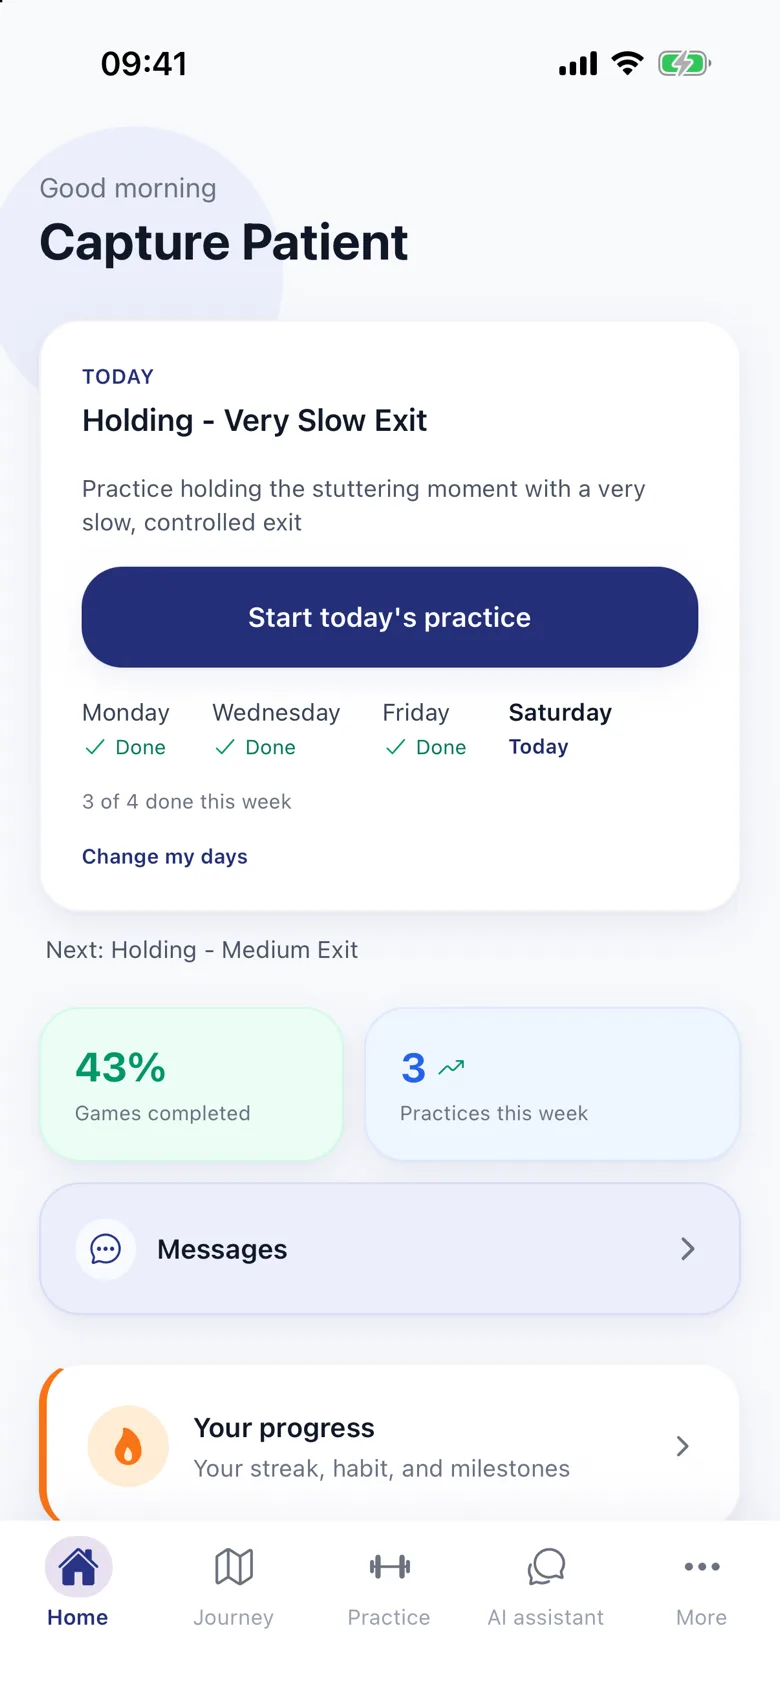
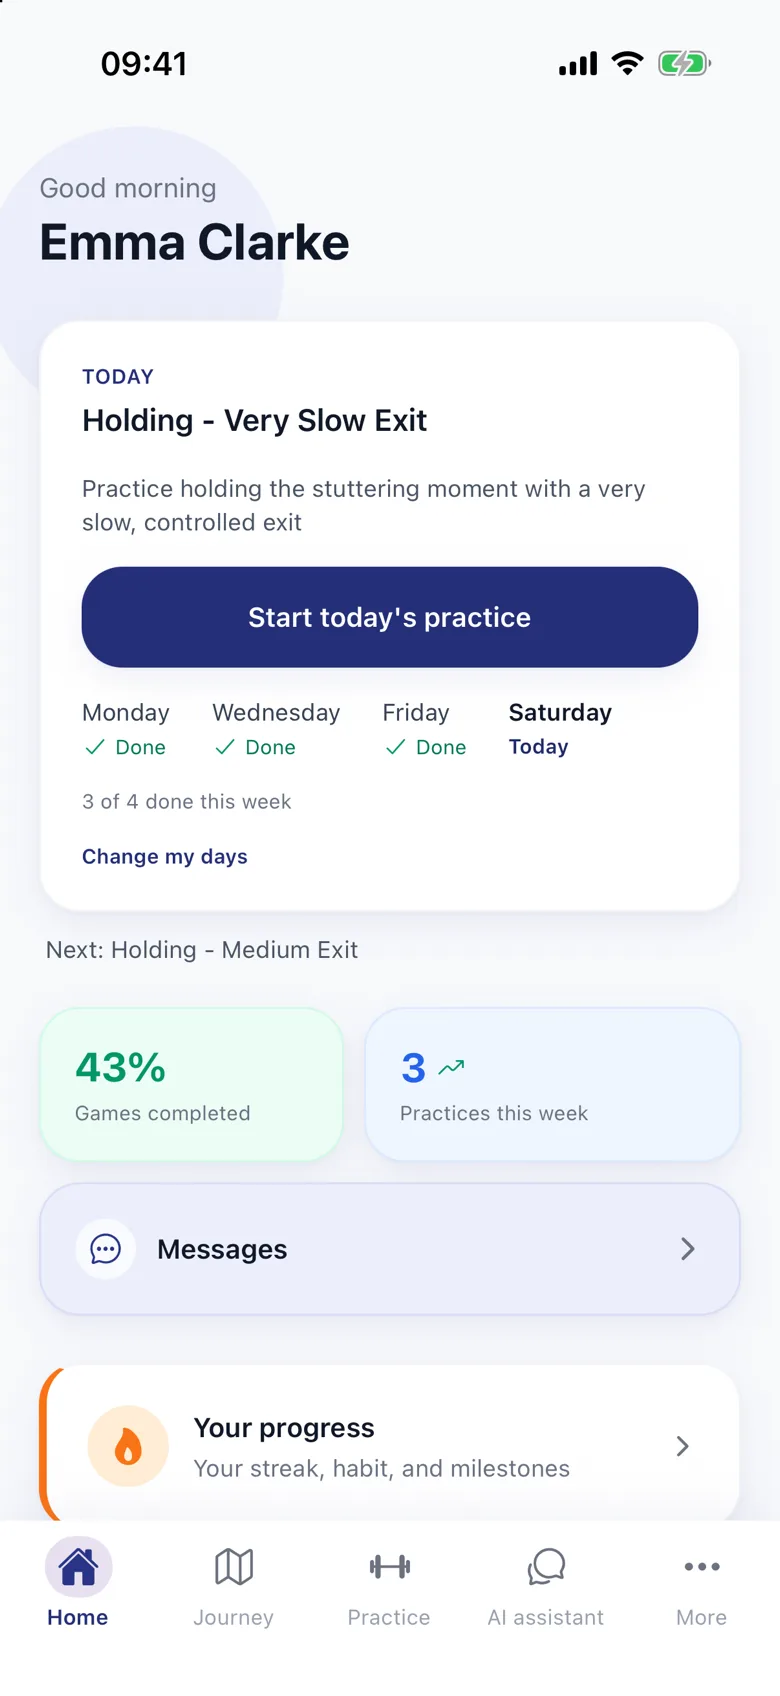
fix(patients): named demo patient, unscrolled recorder, larger legible hero cards, pt and es cards recaptured

Changed region(s): [[0.0615, 0.125, 0.5231, 0.1562]]

diff --git a/src/pages/ForPatients.tsx b/src/pages/ForPatients.tsx
@@ -27,13 +27,13 @@ const GALLERY = [
 const EXCHANGE = [
   {
     src: "/screenshots/detail/exchange-today.webp",
-    width: 1080,
-    height: 400,
+    width: 680,
+    height: 424,
   },
   {
     src: "/screenshots/detail/exchange-reply.webp",
-    width: 1008,
-    height: 292,
+    width: 680,
+    height: 316,
   },
 ] as const;
 const RECORD_SHOT = "/screenshots/mobile/patient-record.webp";
@@ -169,7 +169,7 @@ export default function ForPatients() {
             records on the phone, the therapist replies. */}
         <section className="relative overflow-hidden pt-28 pb-[clamp(2rem,5vw,4rem)] sm:pt-36">
           <div className="gutter relative">
-            <div className="grid items-center gap-12 lg:grid-cols-[0.9fr,1.1fr] lg:gap-8">
+            <div className="grid items-center gap-12 lg:grid-cols-[0.86fr,1.14fr] lg:gap-8">
               <div>
                 <p className={eyebrowClass}>{t.intro.eyebrow}</p>
                 <h1 className="t-display mt-5 font-accent font-bold text-calm-navy tracking-tight">
@@ -189,7 +189,7 @@ export default function ForPatients() {
                 </div>
               </div>
 
-              <ol className="mx-auto grid w-full max-w-[520px] gap-6 sm:max-w-[640px] sm:grid-cols-[1fr,auto] sm:grid-rows-[auto,auto,1fr] sm:items-center sm:gap-x-0 lg:ml-auto">
+              <ol className="mx-auto grid w-full max-w-[520px] gap-6 sm:max-w-[680px] sm:grid-cols-[1fr,auto] sm:grid-rows-[auto,auto,1fr] sm:items-center sm:gap-x-0 lg:ml-auto">
                 <li className="relative z-20 sm:col-start-1 sm:row-start-1 sm:mr-4 sm:self-start">
                   <BeatLabel n={1}>{t.intro.exchange.todayLabel}</BeatLabel>
                   <img
@@ -206,7 +206,7 @@ export default function ForPatients() {
                   <PhoneShot
                     src={localizedAsset(RECORD_SHOT, locale)}
                     alt={t.intro.exchange.recordAlt}
-                    className="relative w-[190px] sm:w-[225px]"
+                    className="relative w-[190px] sm:w-[250px]"
                   />
                 </li>
                 <li className="relative z-20 sm:col-start-1 sm:row-start-2 sm:mr-4 sm:self-start">

diff --git a/src/i18n/localized-assets.generated.ts b/src/i18n/localized-assets.generated.ts
@@ -11,6 +11,8 @@ export const LOCALIZED_ASSETS: ReadonlySet<string> = new Set([
   "es|/screenshots/app/therapist-patient-progress.jpg",
   "es|/screenshots/app/therapist-report.png",
   "es|/screenshots/desktop.jpg",
+  "es|/screenshots/detail/exchange-reply.webp",
+  "es|/screenshots/detail/exchange-today.webp",
   "es|/screenshots/detail/plan-assigned.webp",
   "es|/screenshots/detail/report-ready.webp",
   "es|/screenshots/mobile/caregiver-today-crop.webp",
@@ -25,6 +27,8 @@ export const LOCALIZED_ASSETS: ReadonlySet<string> = new Set([
   "pt|/screenshots/app/therapist-patient-progress.jpg",
   "pt|/screenshots/app/therapist-report.png",
   "pt|/screenshots/desktop.jpg",
+  "pt|/screenshots/detail/exchange-reply.webp",
+  "pt|/screenshots/detail/exchange-today.webp",
   "pt|/screenshots/detail/plan-assigned.webp",
   "pt|/screenshots/detail/report-ready.webp",
   "pt|/screenshots/mobile/caregiver-today-crop.webp",

diff --git a/src/i18n/locales/pt.ts b/src/i18n/locales/pt.ts
@@ -435,7 +435,7 @@ export const pt: Dictionary = {
       headlineLine2: "entre sessões.",
       body: "O teu terapeuta escolhe os exercícios. Tu fazes-os em casa, no telemóvel, e o terapeuta vê como correu cada um.",
       exchange: {
-        todayLabel: "O exercício de hoje, definido pelo Sam Rivera",
+        todayLabel: "Exercício de hoje, do Sam Rivera",
         todayAlt:
           "O painel do paciente: a prática de hoje, definida pelo terapeuta, com um botão para começar",
         replyLabel: "Sam Rivera responde",

diff --git a/src/i18n/locales/es.ts b/src/i18n/locales/es.ts
@@ -434,7 +434,7 @@ export const es: Dictionary = {
       headlineLine2: "entre sesiones.",
       body: "Tu logopeda elige los ejercicios. Tú los haces en casa, desde el móvil, y tu logopeda ve cómo ha ido cada uno.",
       exchange: {
-        todayLabel: "El ejercicio de hoy, definido por Sam Rivera",
+        todayLabel: "Ejercicio de hoy, de Sam Rivera",
         todayAlt:
           "El panel del paciente: la práctica de hoy, definida por el terapeuta, con un botón para empezar",
         replyLabel: "Sam Rivera responde",
